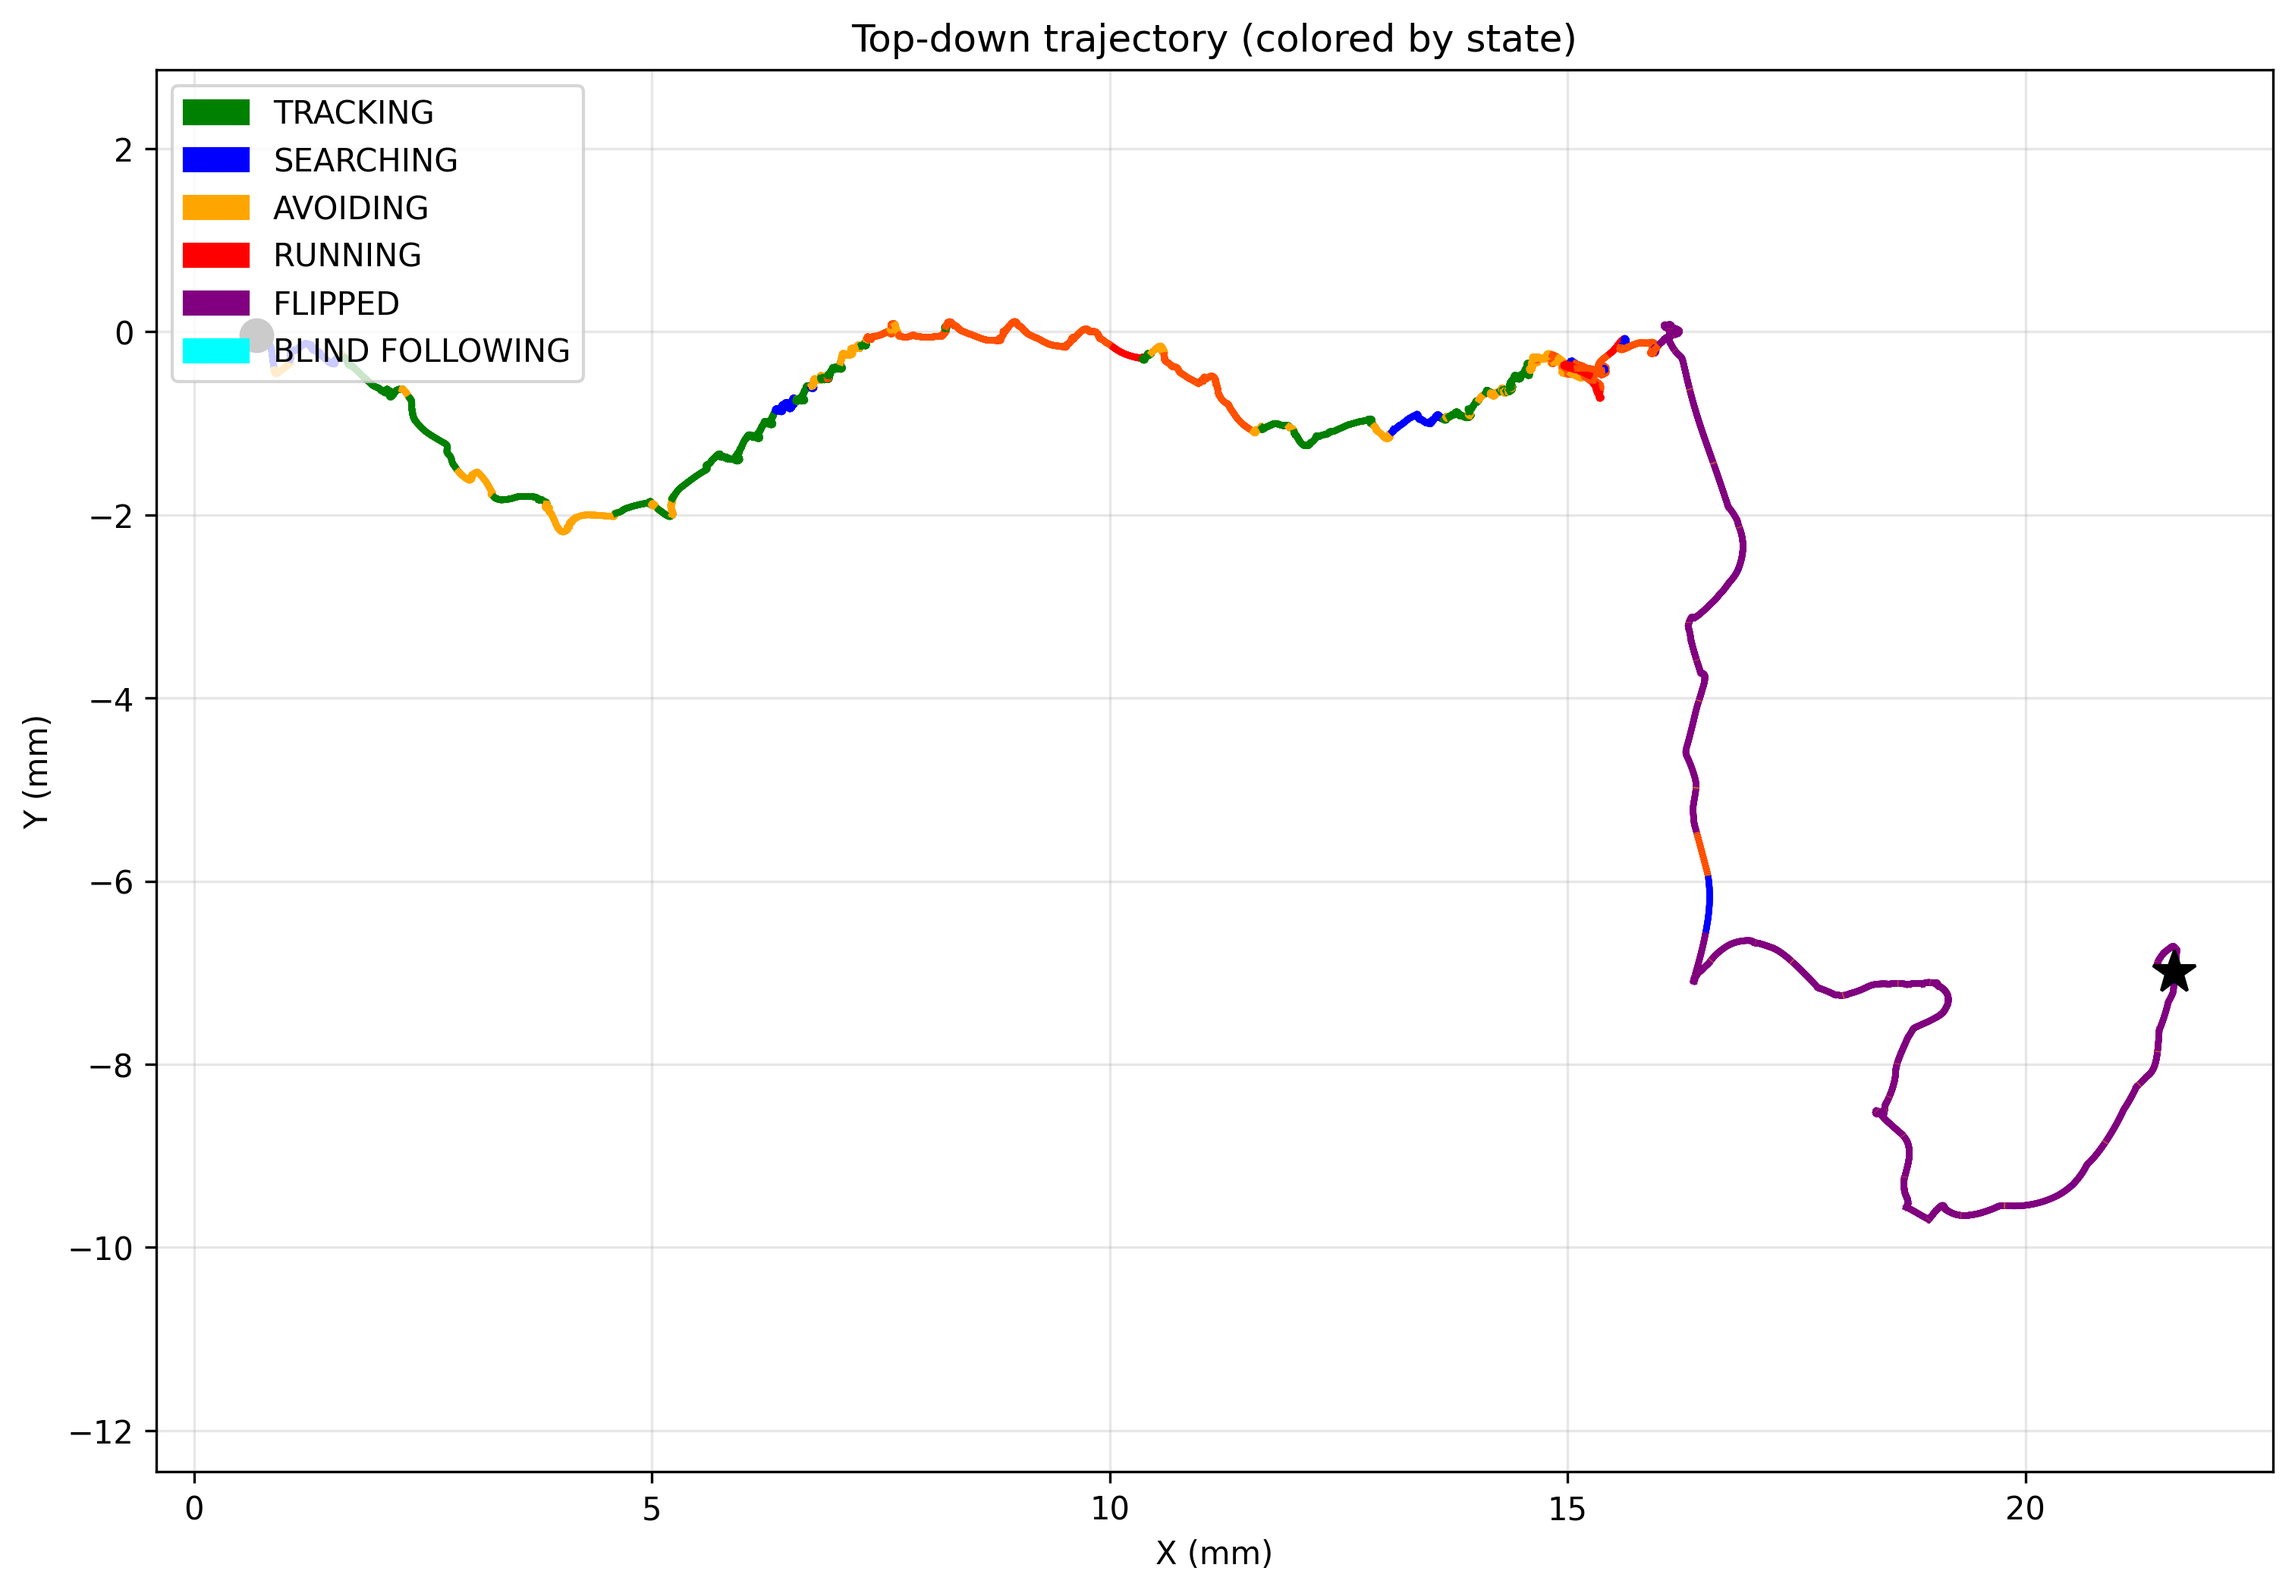
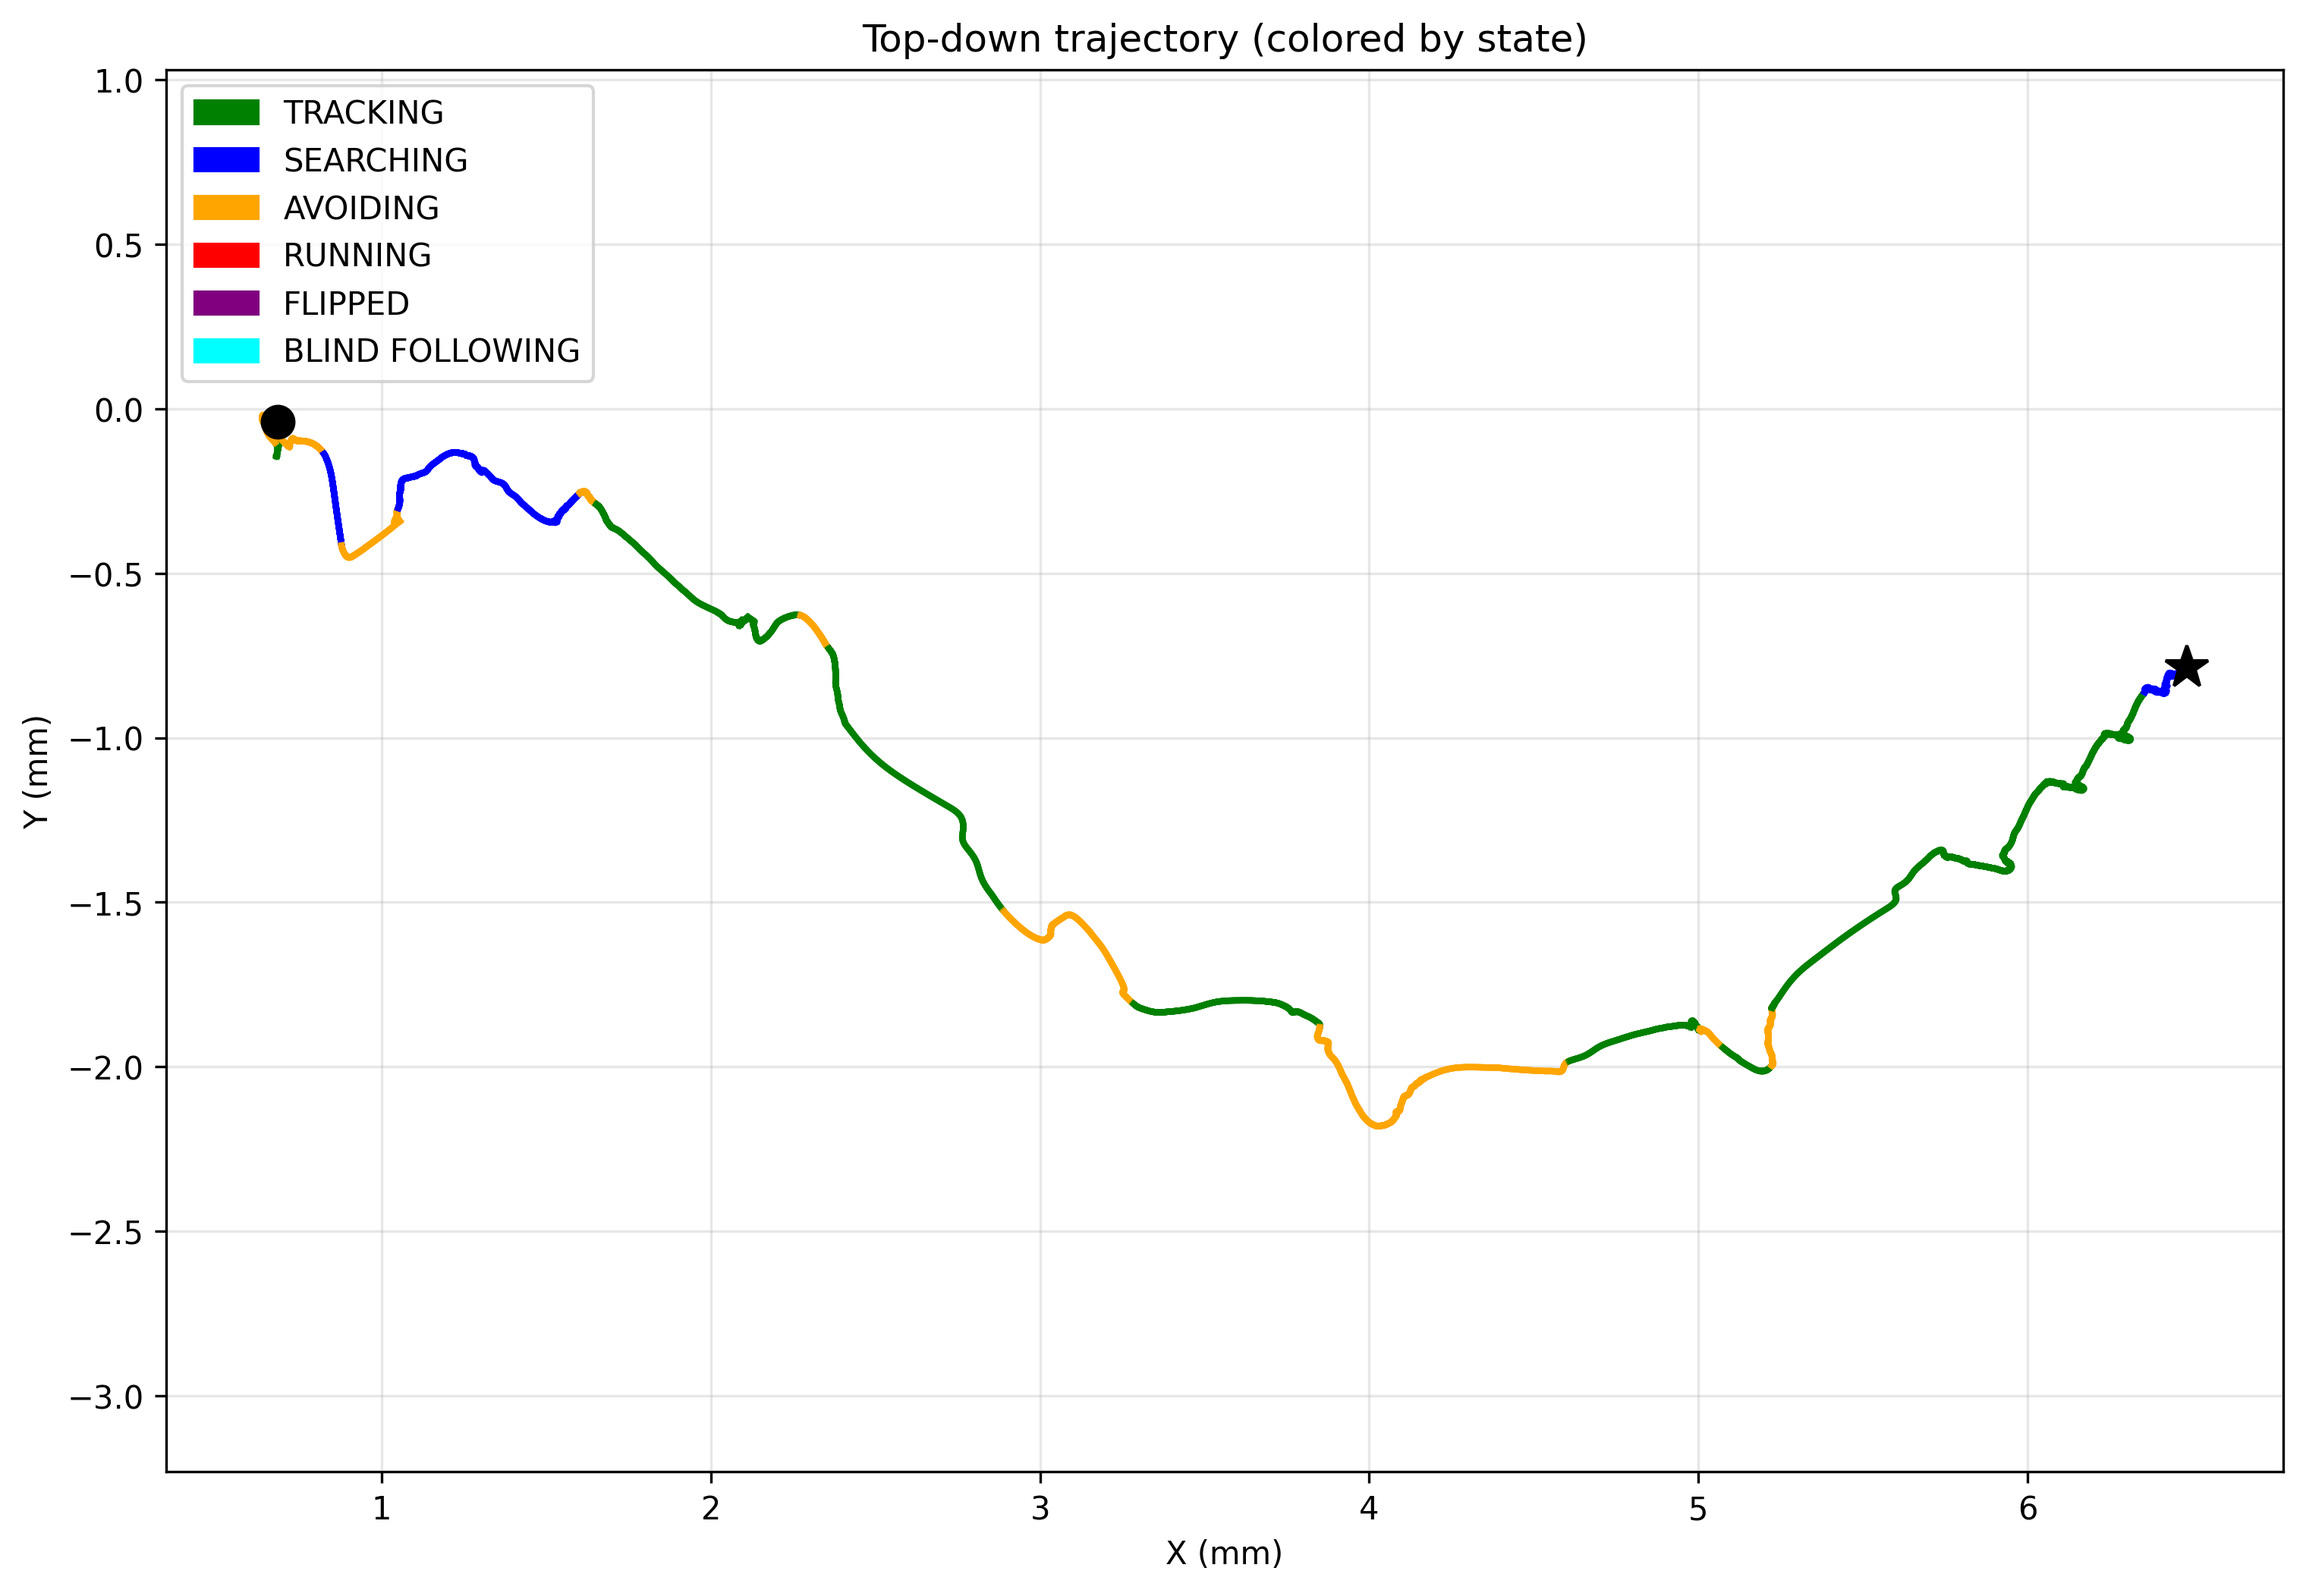
just one thing missing

diff --git a/miniproject/submission/controller.py b/miniproject/submission/controller.py
@@ -601,22 +601,6 @@ class Controller:
         """
         regions = np.zeros(NB_OF_RECT)
 
-        # Method 2: height-based (works for solid obstacles)
-        """for i in range(len(self.last_vertical_segments)): # contains (x, y_top, y_bottom)
-            x = self.last_vertical_segments[i][0]
-            height = self.last_vertical_segments[i][2]-self.last_vertical_segments[i][1]
-
-            if self.is_left(x):
-                if self.is_end_of_roi(x):
-                    regions[0] += height
-                else:
-                    regions[1] += height
-            else:
-                if self.is_end_of_roi(x):
-                    regions[3] += height
-                else:
-                    regions[2] += height"""
-
         # Method 1: height-based (works for solid obstacles)
         for i in range(len(self.last_vertical_segments)):
             x = self.last_vertical_segments[i][0]
@@ -1326,7 +1310,7 @@ def wind_analysis(self, sim, pitch_diff, roll_diff, yaw_diff) :
     return wind_direction
 
 
-def add_state_overlay(frames, states, step_ratio, actual_wind_angles=None, perceived_wind_angles=None, headings=None, drag_count = -6):
+def add_state_overlay(frames, states, step_ratio, actual_wind_angles=None, perceived_wind_angles=None, headings=None):
     """
     frames: sim.renderer.frames["birdeyecam"]
     states: controller.trajectory_states
@@ -1379,7 +1363,7 @@ def add_state_overlay(frames, states, step_ratio, actual_wind_angles=None, perce
         f = frame.copy()
         # map frame index back to a trajectory step
         state_idx = min(i * step_ratio, len(states) - 1)
-        state = states[state_idx] + str(drag_count)
+        state = states[state_idx] 
         color = state_colors.get(state, (255, 255, 255))
         cv2.putText(
             f, state,
